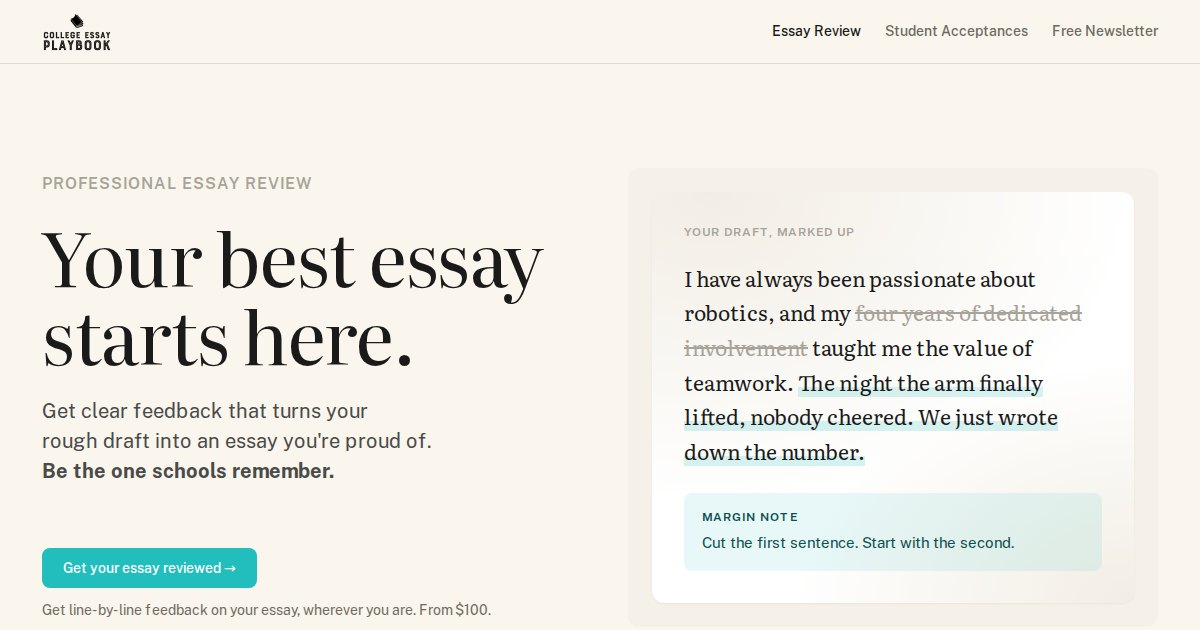
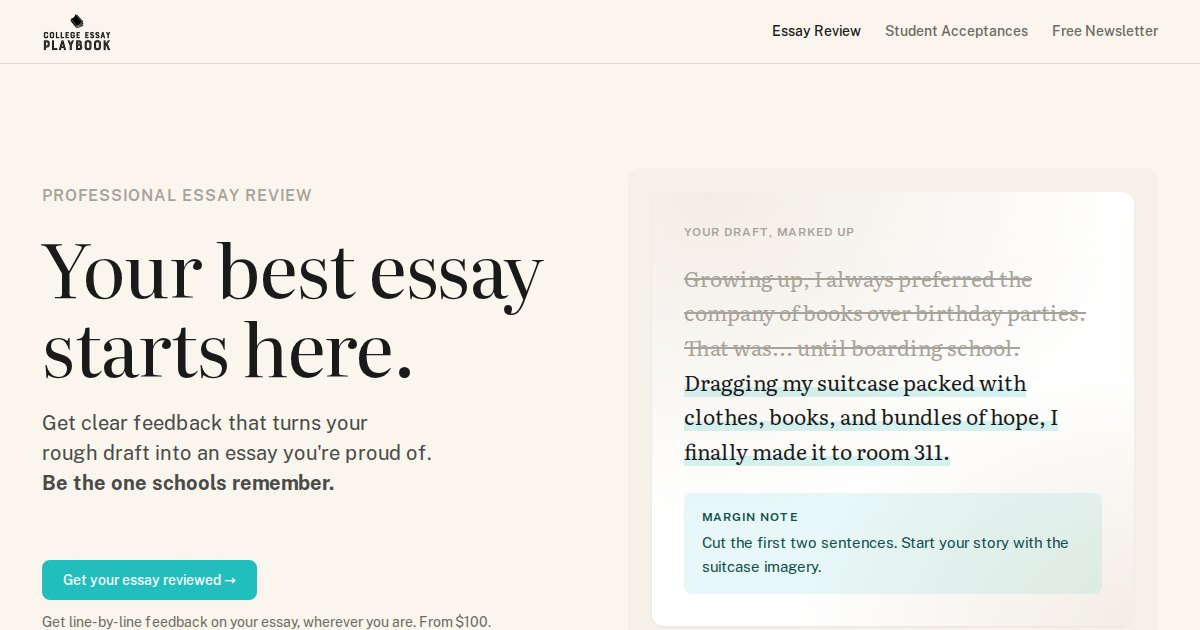
Add files via upload

diff --git a/index.html b/index.html
@@ -265,7 +265,7 @@ a:hover { color: rgb(33, 190, 189); }
 </head>
 <body>
 
-<div id="dc-root"><div class="sc-host" data-sc-name="source"><div style="background: rgb(250, 246, 237); font: 400 16px / 1.55 &quot;Public Sans&quot;, ui-sans-serif, system-ui, sans-serif; color: rgb(74, 74, 74);"><header style="background: rgb(250, 246, 237); height: 64px; border-bottom: 1px solid rgb(224, 219, 210); display: flex; align-items: center; position: sticky; top: 0px; z-index: 20;"><nav style="width: 100%; max-width: 1180px; margin: 0px auto; padding: 0px 32px; display: flex; align-items: center; gap: 32px;"><a href="#top" style="display: flex; align-items: center;"><img src="assets/2b1fd3ae8d9f.webp" alt="College Essay Playbook" style="height: 40px; width: auto; display: block;"></a><div style="margin-left: auto; display: flex; align-items: center; gap: 24px; font: 500 14px / 1.5 &quot;Public Sans&quot;, sans-serif;"><a href="#review" style="color: rgb(26, 26, 26); text-decoration: none;">Essay Review</a><a href="#proof" style="color: rgb(111, 106, 97); text-decoration: none;">Student Acceptances</a><a href="#newsletter" style="color: rgb(111, 106, 97); text-decoration: none;">Free Newsletter</a></div></nav></header><section id="top" data-screen-label="Hero" style="padding: 104px 0px 0px;"><div style="max-width: 1180px; margin: 0px auto; padding: 0px 32px; display: grid; grid-template-columns: repeat(auto-fit, minmax(340px, 1fr)); gap: 56px; align-items: center;"><div><div style="font: 600 16px / 1.4 &quot;Public Sans&quot;, sans-serif; letter-spacing: 1px; text-transform: uppercase; color: rgb(168, 163, 154); margin-bottom: 20px;">PROFESSIONAL ESSAY REVIEW</div><h1 style="margin: 0px; font: 400 clamp(42px, 6.2vw, 84px) / 1.05 Literata, Georgia, serif; letter-spacing: -1.5px; color: rgb(26, 26, 26);">Your best essay starts here.</h1><p style="margin: 24px 0px 0px; font: 400 20px / 1.5 &quot;Public Sans&quot;, sans-serif; color: rgb(74, 74, 74); max-width: 48ch; text-wrap: pretty; width: 492px; height: 120px;">Get clear feedback that turns your<br>rough draft into an essay you're proud of. <br><b>Be the one schools remember.<br></b><br></p><div style="margin-top: 32px; display: flex; flex-direction: column; align-items: flex-start; gap: 12px;"><div class="sc-host-x" style="display: contents;"><a href="#review" style="display: inline-flex; align-items: center; justify-content: center; gap: var(--space-xs); font: var(--type-button-md); padding: var(--pad-button); border-radius: var(--radius-button); cursor: pointer; width: auto; transition: var(--transition-state); white-space: nowrap; text-decoration: none; background: var(--teal); color: var(--text-on-teal); border: 1px solid transparent;">Get your essay reviewed →</a></div><div style="font: 400 14px / 1.5 &quot;Public Sans&quot;, sans-serif; color: rgb(111, 106, 97);">Get line-by-line feedback on your essay, wherever you are. From $100.</div></div></div><div style="background: rgb(245, 240, 232); padding: 24px; border-radius: 12px;"><div style="position: relative; background: rgb(255, 255, 255); border-radius: 12px; overflow: hidden; box-shadow: rgba(26, 26, 26, 0.05) 0px 1px 3px 0px;"><div style="position: absolute; inset: 0px; opacity: 0.55; background: radial-gradient(140% 120% at 12% 0%, rgb(232, 223, 206) 0%, transparent 62%), radial-gradient(120% 100% at 100% 100%, rgb(232, 223, 206) 0%, transparent 58%);"></div><div style="position: relative; padding: 32px;"><div style="font: 600 12px / 1.4 &quot;Public Sans&quot;, sans-serif; letter-spacing: 1px; text-transform: uppercase; color: rgb(168, 163, 154); margin-bottom: 20px;">Your draft, marked up</div><p style="margin: 0px; font: 400 21px / 1.65 Literata, Georgia, serif; color: rgb(26, 26, 26);">I have always been passionate about robotics, and my <span style="color: rgb(168, 163, 154); text-decoration: line-through;">four years of dedicated involvement</span> taught me the value of teamwork. <span style="box-shadow: rgba(33, 190, 189, 0.18) 0px -10px 0px inset;">The night the arm finally lifted, nobody cheered. We just wrote down the number.</span></p><div style="margin-top: 24px; background: rgba(33, 190, 189, 0.1); border-radius: 8px; padding: 16px 18px;"><div style="font: 600 12px / 1.4 &quot;Public Sans&quot;, sans-serif; letter-spacing: 1px; text-transform: uppercase; color: rgb(12, 79, 78); margin-bottom: 6px;">Margin note</div><div style="font: 400 15px / 1.55 &quot;Public Sans&quot;, sans-serif; color: rgb(12, 79, 78);">Cut the first sentence. Start with the second.</div></div></div></div></div></div><div style="max-width: 1180px; margin: 72px auto 0px; padding: 0px 32px;"><div style="border-top: 1px solid rgb(224, 219, 210); border-bottom: 1px solid rgb(224, 219, 210); padding: 22px 0px;"><div style="overflow: hidden;"><div data-cep-marquee="true" class="scp0" style="display: flex; align-items: center; width: max-content; animation: 64s linear 0s infinite normal none running cep-logo-marquee;"><div style="display: flex; align-items: center; gap: 52px; padding-right: 52px;"><img src="assets/45f95d2570ba.webp" alt="Stanford" style="height: 20px; width: auto; display: block; flex: 0 0 auto;"><img src="assets/a4bcbc0462c2.webp" alt="Brown" style="height: 32px; width: auto; display: block; flex: 0 0 auto;"><img src="assets/3e13833df788.webp" alt="UChicago" style="height: 32px; width: auto; display: block; flex: 0 0 auto;"><img src="assets/ab2d16cb9f86.webp" alt="Cornell" style="height: 32px; width: auto; display: block; flex: 0 0 auto;"><img src="assets/a8b0b301056c.webp" alt="UC Berkeley" style="height: 20px; width: auto; display: block; flex: 0 0 auto;"><img src="assets/2238df51ebb5.webp" alt="Duke" style="height: 26px; width: auto; display: block; flex: 0 0 auto;"><img src="assets/7add6d4907fb.webp" alt="UCLA" style="height: 32px; width: auto; display: block; flex: 0 0 auto;"><img src="assets/e28ca5a9fcb9.webp" alt="Vanderbilt" style="height: 32px; width: auto; display: block; flex: 0 0 auto;"><img src="assets/c02b90d16540.webp" alt="USC" style="height: 32px; width: auto; display: block; flex: 0 0 auto;"><img src="assets/ee2ad68f45fa.webp" alt="NYU" style="height: 32px; width: auto; display: block; flex: 0 0 auto;"></div><div style="display: flex; align-items: center; gap: 52px; padding-right: 52px;"><img src="assets/45f95d2570ba.webp" alt="" aria-hidden="true" style="height: 20px; width: auto; display: block; flex: 0 0 auto;"><img src="assets/a4bcbc0462c2.webp" alt="" aria-hidden="true" style="height: 32px; width: auto; display: block; flex: 0 0 auto;"><img src="assets/3e13833df788.webp" alt="" aria-hidden="true" style="height: 32px; width: auto; display: block; flex: 0 0 auto;"><img src="assets/ab2d16cb9f86.webp" alt="" aria-hidden="true" style="height: 32px; width: auto; display: block; flex: 0 0 auto;"><img src="assets/a8b0b301056c.webp" alt="" aria-hidden="true" style="height: 20px; width: auto; display: block; flex: 0 0 auto;"><img src="assets/2238df51ebb5.webp" alt="" aria-hidden="true" style="height: 26px; width: auto; display: block; flex: 0 0 auto;"><img src="assets/7add6d4907fb.webp" alt="" aria-hidden="true" style="height: 32px; width: auto; display: block; flex: 0 0 auto;"><img src="assets/e28ca5a9fcb9.webp" alt="" aria-hidden="true" style="height: 32px; width: auto; display: block; flex: 0 0 auto;"><img src="assets/c02b90d16540.webp" alt="" aria-hidden="true" style="height: 32px; width: auto; display: block; flex: 0 0 auto;"><img src="assets/ee2ad68f45fa.webp" alt="" aria-hidden="true" style="height: 32px; width: auto; display: block; flex: 0 0 auto;"></div></div></div></div></div></section><section data-screen-label="The problem" style="padding: 96px 0px;"><div style="max-width: 1180px; margin: 0px auto; padding: 0px 32px; display: grid; grid-template-columns: repeat(auto-fit, minmax(340px, 1fr)); gap: 48px; align-items: start;"><h2 style="margin: 0px; font: 400 clamp(32px, 4.2vw, 52px) / 1.15 Literata, Georgia, serif; letter-spacing: -0.5px; color: rgb(26, 26, 26); text-wrap: pretty;">You feel lost because there's no blueprint for college essays.</h2><div style="display: grid; gap: 20px; max-width: 58ch;"><p style="margin: 0px; font: 400 18px / 1.6 &quot;Public Sans&quot;, sans-serif; color: rgb(74, 74, 74); text-wrap: pretty;">School trains us to look for right answers, but a college essay doesn't have one. So you write a draft, edit, polish, and still can't tell if it's any good.<br><br>
+<div id="dc-root"><div class="sc-host" data-sc-name="source"><div style="background: rgb(250, 246, 237); font: 400 16px / 1.55 &quot;Public Sans&quot;, ui-sans-serif, system-ui, sans-serif; color: rgb(74, 74, 74);"><header style="background: rgb(250, 246, 237); height: 64px; border-bottom: 1px solid rgb(224, 219, 210); display: flex; align-items: center; position: sticky; top: 0px; z-index: 20;"><nav style="width: 100%; max-width: 1180px; margin: 0px auto; padding: 0px 32px; display: flex; align-items: center; gap: 32px;"><a href="#top" style="display: flex; align-items: center;"><img src="assets/2b1fd3ae8d9f.webp" alt="College Essay Playbook" style="height: 40px; width: auto; display: block;"></a><div style="margin-left: auto; display: flex; align-items: center; gap: 24px; font: 500 14px / 1.5 &quot;Public Sans&quot;, sans-serif;"><a href="#review" style="color: rgb(26, 26, 26); text-decoration: none;">Essay Review</a><a href="#proof" style="color: rgb(111, 106, 97); text-decoration: none;">Student Acceptances</a><a href="#newsletter" style="color: rgb(111, 106, 97); text-decoration: none;">Free Newsletter</a></div></nav></header><section id="top" data-screen-label="Hero" style="padding: 104px 0px 0px;"><div style="max-width: 1180px; margin: 0px auto; padding: 0px 32px; display: grid; grid-template-columns: repeat(auto-fit, minmax(340px, 1fr)); gap: 56px; align-items: center;"><div><div style="font: 600 16px / 1.4 &quot;Public Sans&quot;, sans-serif; letter-spacing: 1px; text-transform: uppercase; color: rgb(168, 163, 154); margin-bottom: 20px;">PROFESSIONAL ESSAY REVIEW</div><h1 style="margin: 0px; font: 400 clamp(42px, 6.2vw, 84px) / 1.05 Literata, Georgia, serif; letter-spacing: -1.5px; color: rgb(26, 26, 26);">Your best essay starts here.</h1><p style="margin: 24px 0px 0px; font: 400 20px / 1.5 &quot;Public Sans&quot;, sans-serif; color: rgb(74, 74, 74); max-width: 48ch; text-wrap: pretty; width: 492px; height: 120px;">Get clear feedback that turns your<br>rough draft into an essay you're proud of. <br><b>Be the one schools remember.<br></b><br></p><div style="margin-top: 32px; display: flex; flex-direction: column; align-items: flex-start; gap: 12px;"><div class="sc-host-x" style="display: contents;"><a href="#review" style="display: inline-flex; align-items: center; justify-content: center; gap: var(--space-xs); font: var(--type-button-md); padding: var(--pad-button); border-radius: var(--radius-button); cursor: pointer; width: auto; transition: var(--transition-state); white-space: nowrap; text-decoration: none; background: var(--teal); color: var(--text-on-teal); border: 1px solid transparent;">Get your essay reviewed →</a></div><div style="font: 400 14px / 1.5 &quot;Public Sans&quot;, sans-serif; color: rgb(111, 106, 97);">Get line-by-line feedback on your essay, wherever you are. From $100.</div></div></div><div style="background: rgb(245, 240, 232); padding: 24px; border-radius: 12px;"><div style="position: relative; background: rgb(255, 255, 255); border-radius: 12px; overflow: hidden; box-shadow: rgba(26, 26, 26, 0.05) 0px 1px 3px 0px;"><div style="position: absolute; inset: 0px; opacity: 0.55; background: radial-gradient(140% 120% at 12% 0%, rgb(232, 223, 206) 0%, transparent 62%), radial-gradient(120% 100% at 100% 100%, rgb(232, 223, 206) 0%, transparent 58%);"></div><div style="position: relative; padding: 32px;"><div style="font: 600 12px / 1.4 &quot;Public Sans&quot;, sans-serif; letter-spacing: 1px; text-transform: uppercase; color: rgb(168, 163, 154); margin-bottom: 20px;">Your draft, marked up</div><p style="margin: 0px; font: 400 21px / 1.65 Literata, Georgia, serif; color: rgb(26, 26, 26);"><span style="color: rgb(168, 163, 154); text-decoration: line-through;">Growing up, I always preferred the company of books over birthday parties. That was... until boarding school.</span> <span style="box-shadow: rgba(33, 190, 189, 0.18) 0px -10px 0px inset;">Dragging my suitcase packed with clothes, books, and bundles of hope, I finally made it to room 311.</span></p><div style="margin-top: 24px; background: rgba(33, 190, 189, 0.1); border-radius: 8px; padding: 16px 18px;"><div style="font: 600 12px / 1.4 &quot;Public Sans&quot;, sans-serif; letter-spacing: 1px; text-transform: uppercase; color: rgb(12, 79, 78); margin-bottom: 6px;">Margin note</div><div style="font: 400 15px / 1.55 &quot;Public Sans&quot;, sans-serif; color: rgb(12, 79, 78);">Cut the first two sentences. Start your story with the suitcase imagery.</div></div></div></div></div></div><div style="max-width: 1180px; margin: 72px auto 0px; padding: 0px 32px;"><div style="border-top: 1px solid rgb(224, 219, 210); border-bottom: 1px solid rgb(224, 219, 210); padding: 22px 0px;"><div style="overflow: hidden;"><div data-cep-marquee="true" class="scp0" style="display: flex; align-items: center; width: max-content; animation: 64s linear 0s infinite normal none running cep-logo-marquee;"><div style="display: flex; align-items: center; gap: 52px; padding-right: 52px;"><img src="assets/45f95d2570ba.webp" alt="Stanford" style="height: 20px; width: auto; display: block; flex: 0 0 auto;"><img src="assets/a4bcbc0462c2.webp" alt="Brown" style="height: 32px; width: auto; display: block; flex: 0 0 auto;"><img src="assets/3e13833df788.webp" alt="UChicago" style="height: 32px; width: auto; display: block; flex: 0 0 auto;"><img src="assets/ab2d16cb9f86.webp" alt="Cornell" style="height: 32px; width: auto; display: block; flex: 0 0 auto;"><img src="assets/a8b0b301056c.webp" alt="UC Berkeley" style="height: 20px; width: auto; display: block; flex: 0 0 auto;"><img src="assets/2238df51ebb5.webp" alt="Duke" style="height: 26px; width: auto; display: block; flex: 0 0 auto;"><img src="assets/7add6d4907fb.webp" alt="UCLA" style="height: 32px; width: auto; display: block; flex: 0 0 auto;"><img src="assets/e28ca5a9fcb9.webp" alt="Vanderbilt" style="height: 32px; width: auto; display: block; flex: 0 0 auto;"><img src="assets/c02b90d16540.webp" alt="USC" style="height: 32px; width: auto; display: block; flex: 0 0 auto;"><img src="assets/ee2ad68f45fa.webp" alt="NYU" style="height: 32px; width: auto; display: block; flex: 0 0 auto;"></div><div style="display: flex; align-items: center; gap: 52px; padding-right: 52px;"><img src="assets/45f95d2570ba.webp" alt="" aria-hidden="true" style="height: 20px; width: auto; display: block; flex: 0 0 auto;"><img src="assets/a4bcbc0462c2.webp" alt="" aria-hidden="true" style="height: 32px; width: auto; display: block; flex: 0 0 auto;"><img src="assets/3e13833df788.webp" alt="" aria-hidden="true" style="height: 32px; width: auto; display: block; flex: 0 0 auto;"><img src="assets/ab2d16cb9f86.webp" alt="" aria-hidden="true" style="height: 32px; width: auto; display: block; flex: 0 0 auto;"><img src="assets/a8b0b301056c.webp" alt="" aria-hidden="true" style="height: 20px; width: auto; display: block; flex: 0 0 auto;"><img src="assets/2238df51ebb5.webp" alt="" aria-hidden="true" style="height: 26px; width: auto; display: block; flex: 0 0 auto;"><img src="assets/7add6d4907fb.webp" alt="" aria-hidden="true" style="height: 32px; width: auto; display: block; flex: 0 0 auto;"><img src="assets/e28ca5a9fcb9.webp" alt="" aria-hidden="true" style="height: 32px; width: auto; display: block; flex: 0 0 auto;"><img src="assets/c02b90d16540.webp" alt="" aria-hidden="true" style="height: 32px; width: auto; display: block; flex: 0 0 auto;"><img src="assets/ee2ad68f45fa.webp" alt="" aria-hidden="true" style="height: 32px; width: auto; display: block; flex: 0 0 auto;"></div></div></div></div></div></section><section data-screen-label="The problem" style="padding: 96px 0px;"><div style="max-width: 1180px; margin: 0px auto; padding: 0px 32px; display: grid; grid-template-columns: repeat(auto-fit, minmax(340px, 1fr)); gap: 48px; align-items: start;"><h2 style="margin: 0px; font: 400 clamp(32px, 4.2vw, 52px) / 1.15 Literata, Georgia, serif; letter-spacing: -0.5px; color: rgb(26, 26, 26); text-wrap: pretty;">You feel lost because there's no blueprint for college essays.</h2><div style="display: grid; gap: 20px; max-width: 58ch;"><p style="margin: 0px; font: 400 18px / 1.6 &quot;Public Sans&quot;, sans-serif; color: rgb(74, 74, 74); text-wrap: pretty;">School trains us to look for right answers, but a college essay doesn't have one. So you write a draft, edit, polish, and still can't tell if it's any good.<br><br>
 You don't need a blueprint. You need direction.</p></div></div></section><section data-screen-label="Benefit triad" style="background: rgb(232, 223, 206); padding: 80px 0px;"><div style="max-width: 1180px; margin: 0px auto; padding: 0px 32px;"><h2 style="margin: 0px 0px 32px; font: 500 36px / 1.2 &quot;Public Sans&quot;, sans-serif; letter-spacing: -0.5px; color: rgb(26, 26, 26);">When you level up your essay...</h2><div style="display: grid; grid-template-columns: repeat(auto-fit, minmax(260px, 1fr)); gap: 20px;"><div style="background: rgb(255, 255, 255); border-radius: 12px; padding: 28px; display: flex; gap: 14px; align-items: flex-start;"><span style="flex: 0 0 auto; width: 6px; height: 6px; border-radius: 50%; background: rgb(33, 190, 189); margin-top: 11px;"></span><p style="margin: 0px; font: 400 21px / 1.45 Literata, Georgia, serif; color: rgb(26, 26, 26); text-wrap: pretty; position: relative;">It actually sounds like you (no more generic AI stuff)</p><p></p></div><div style="background: rgb(255, 255, 255); border-radius: 12px; padding: 28px; display: flex; gap: 14px; align-items: flex-start;"><span style="flex: 0 0 auto; width: 6px; height: 6px; border-radius: 50%; background: rgb(33, 190, 189); margin-top: 11px;"></span><p style="margin: 0px; font: 400 21px / 1.45 Literata, Georgia, serif; color: rgb(26, 26, 26); text-wrap: pretty;">It shows who you are, not just what you've done</p></div><div style="background: rgb(255, 255, 255); border-radius: 12px; padding: 28px; display: flex; gap: 14px; align-items: flex-start;"><span style="flex: 0 0 auto; width: 6px; height: 6px; border-radius: 50%; background: rgb(33, 190, 189); margin-top: 11px;"></span><p style="margin: 0px; font: 400 21px / 1.45 Literata, Georgia, serif; color: rgb(26, 26, 26); text-wrap: pretty;">You appeal to your reader's head and heart, potentially swinging their decision</p></div></div></div></section><section id="review" data-screen-label="The offer" style="padding: 96px 0px;"><div style="max-width: 1180px; margin: 0px auto; padding: 0px 32px;"><h2 style="margin: 0px; max-width: 30ch; font: 400 clamp(32px, 4.2vw, 52px) / 1.15 Literata, Georgia, serif; letter-spacing: -0.5px; color: rgb(26, 26, 26); text-wrap: pretty;">Professional Essay Review: <br>know what to fix before you submit</h2><div style="margin-top: 40px; display: grid; grid-template-columns: repeat(auto-fit, minmax(320px, 1fr)); gap: 48px; align-items: start;"><div style="display: grid; gap: 20px;"><p style="margin: 0px; font: 400 18px / 1.6 &quot;Public Sans&quot;, sans-serif; color: rgb(74, 74, 74); text-wrap: pretty;">Send me your draft (even a rough one) and get specific feedback on <b>what's working</b>, <b>what isn't</b>, and <b>what to change</b>, so you can revise with a clear plan instead of guessing.</p><p style="margin: 0px; font: 400 18px / 1.6 &quot;Public Sans&quot;, sans-serif; color: rgb(74, 74, 74); text-wrap: pretty;">This isn't a template or a generic AI pass. I read every line myself, the way I have for 50+ students over 7 years, and it stays between us.</p></div><div style="background: rgb(255, 255, 255); border: 1px solid rgb(224, 219, 210); border-radius: 12px; padding: 32px;"><div style="font: 600 12px / 1.4 &quot;Public Sans&quot;, sans-serif; letter-spacing: 1px; text-transform: uppercase; color: rgb(111, 106, 97); margin-bottom: 20px;">What you get</div><div style="display: grid; gap: 16px;"><div style="display: flex; gap: 12px; align-items: flex-start;"><span style="flex: 0 0 auto; width: 6px; height: 6px; border-radius: 50%; background: rgb(33, 190, 189); margin-top: 8px;"></span><span style="font: 400 17px / 1.5 &quot;Public Sans&quot;, sans-serif; color: rgb(26, 26, 26);">Line-by-line comments on your draft</span></div><div style="display: flex; gap: 12px; align-items: flex-start;"><span style="flex: 0 0 auto; width: 6px; height: 6px; border-radius: 50%; background: rgb(33, 190, 189); margin-top: 8px;"></span><span style="font: 400 17px / 1.5 &quot;Public Sans&quot;, sans-serif; color: rgb(26, 26, 26);">Sample edits that show, not just tell, how to strengthen your story</span></div><div style="display: flex; gap: 12px; align-items: flex-start;"><span style="flex: 0 0 auto; width: 6px; height: 6px; border-radius: 50%; background: rgb(33, 190, 189); margin-top: 8px;"></span><span style="font: 400 17px / 1.5 &quot;Public Sans&quot;, sans-serif; color: rgb(26, 26, 26);">A prioritized revision plan, so you know what to fix first</span></div><div style="display: flex; gap: 12px; align-items: flex-start;"><span style="flex: 0 0 auto; width: 6px; height: 6px; border-radius: 50%; background: rgb(33, 190, 189); margin-top: 8px;"></span><span style="font: 400 17px / 1.5 &quot;Public Sans&quot;, sans-serif; color: rgb(26, 26, 26);">Feedback back to you within 3 business days</span></div></div></div></div><div style="margin-top: 40px; background: rgb(255, 255, 255); border: 1px solid rgb(224, 219, 210); border-radius: 12px; overflow: hidden;"><div style="display: grid; grid-template-columns: repeat(auto-fit, minmax(200px, 1fr));"><div style="padding: 28px 32px;"><div style="font: 600 12px / 1.4 &quot;Public Sans&quot;, sans-serif; letter-spacing: 1px; text-transform: uppercase; color: rgb(111, 106, 97);">Short essay</div><div style="margin-top: 6px; font: 400 15px / 1.5 &quot;Public Sans&quot;, sans-serif; color: rgb(74, 74, 74);">Under 300 words</div><div style="margin-top: 14px; font: 400 44px / 1.05 Literata, Georgia, serif; letter-spacing: -0.5px; color: rgb(26, 26, 26);">$100</div></div><div style="padding: 28px 32px; border-left: 1px solid rgb(224, 219, 210);"><div style="font: 600 12px / 1.4 &quot;Public Sans&quot;, sans-serif; letter-spacing: 1px; text-transform: uppercase; color: rgb(111, 106, 97);">Medium essay</div><div style="margin-top: 6px; font: 400 15px / 1.5 &quot;Public Sans&quot;, sans-serif; color: rgb(74, 74, 74);">301 to 600 words</div><div style="margin-top: 14px; font: 400 44px / 1.05 Literata, Georgia, serif; letter-spacing: -0.5px; color: rgb(26, 26, 26);">$150</div></div><div style="padding: 28px 32px; border-left: 1px solid rgb(224, 219, 210);"><div style="font: 600 12px / 1.4 &quot;Public Sans&quot;, sans-serif; letter-spacing: 1px; text-transform: uppercase; color: rgb(111, 106, 97);">Long essay</div><div style="margin-top: 6px; font: 400 15px / 1.5 &quot;Public Sans&quot;, sans-serif; color: rgb(74, 74, 74);">601 to 800 words</div><div style="margin-top: 14px; font: 400 44px / 1.05 Literata, Georgia, serif; letter-spacing: -0.5px; color: rgb(26, 26, 26);">$200</div></div></div><div style="border-top: 1px solid rgb(224, 219, 210); background: rgb(250, 246, 237); padding: 24px 32px; display: flex; flex-wrap: wrap; gap: 24px; align-items: center; justify-content: space-between;"><p style="margin: 0px; font: 400 16px / 1.55 &quot;Public Sans&quot;, sans-serif; color: rgb(74, 74, 74); max-width: 74ch; text-wrap: pretty;"><span style="font-weight: 600; color: rgb(26, 26, 26);">Add a Second Look</span> to be sure you nailed the revision. Send your revised draft within 2 weeks and I'll do a second pass: what improved, what still needs work, and any final tweaks. <br>A flat $75, any essay length.</p><div class="sc-host-x" style="display: contents;"><a href="https://buymeacoffee.com/themaychen/e/560412" style="display: inline-flex; align-items: center; justify-content: center; gap: var(--space-xs); font: var(--type-button-md); padding: var(--pad-button); border-radius: var(--radius-button); cursor: pointer; width: auto; transition: var(--transition-state); white-space: nowrap; text-decoration: none; background: transparent; color: var(--ink); border: 1px solid var(--button-border);">Add a Second Look →</a></div></div></div><div style="margin-top: 32px; display: flex; flex-wrap: wrap; gap: 20px 28px; align-items: center;"><div class="sc-host-x" style="display: contents;"><a href="https://buymeacoffee.com/themaychen/extras" style="display: inline-flex; align-items: center; justify-content: center; gap: var(--space-xs); font: var(--type-button-md); padding: var(--pad-button); border-radius: var(--radius-button); cursor: pointer; width: auto; transition: var(--transition-state); white-space: nowrap; text-decoration: none; background: var(--teal); color: var(--text-on-teal); border: 1px solid transparent;">Get your essay reviewed →</a></div><a href="https://drive.google.com/file/d/1s9jdha4_hV9waD2XSbMiQtamce-8S3XS/view?usp=sharing" style="font: 500 15px / 1.5 &quot;Public Sans&quot;, sans-serif; color: rgb(12, 79, 78); text-decoration: underline; text-underline-offset: 3px;">Check out my review rubric</a></div></div></section><section data-screen-label="Why me" style="padding: 96px 0px;"><div style="max-width: 1180px; margin: 0px auto; padding: 0px 32px; display: grid; grid-template-columns: repeat(auto-fit, minmax(300px, 1fr)); gap: 56px; align-items: start;"><div style="background: rgb(245, 240, 232); padding: 20px; border-radius: 12px;"><div style="position: relative; width: 100%; aspect-ratio: 4 / 5; border-radius: 8px; overflow: hidden;"><img src="assets/0adf06f31e67.webp" alt="May Chen" style="width: 100%; height: 100%; object-fit: cover; display: block;"></div><div style="margin-top: 14px; font: 500 13px / 1.4 &quot;Public Sans&quot;, sans-serif; color: rgb(111, 106, 97);">Oh, hi there&nbsp;😄</div></div><div><h2 style="margin: 0px; font: 400 clamp(32px, 4.2vw, 52px) / 1.15 Literata, Georgia, serif; letter-spacing: -0.5px; color: rgb(26, 26, 26); max-width: 20ch; text-wrap: pretty;">Your story can be more powerful than your stats</h2><div style="display: grid; gap: 20px; margin-top: 28px; max-width: 60ch;"><div style="margin: 0px; font: 400 18px / 1.6 &quot;Public Sans&quot;, sans-serif; color: rgb(74, 74, 74); text-wrap: pretty;">I got into Cornell with a 3.8 GPA but SAT scores in the 25th percentile. On paper, I was a "maybe". But my essay, about finding myself through different theater roles I played, turned me into a <b>"yes"</b>. <br><br><p class="font-claude-response-body break-words whitespace-normal" dir="ltr">Over <b>7 years</b>, I've helped <b>50+ students</b> do the same, getting into schools like Stanford, Brown, and Cornell.</p><p class="font-claude-response-body break-words whitespace-normal" dir="ltr"><span style="text-wrap-mode: initial;"><br>I'd love to help you find your story.</span></p></div></div></div></div></section><section id="proof" data-screen-label="Proof: logo wall" style="background: rgb(245, 240, 232); padding: 96px 0px;"><div style="max-width: 1180px; margin: 0px auto; padding: 0px 32px;"><h2 style="margin: 0px; font: 400 clamp(32px, 4.2vw, 52px) / 1.15 Literata, Georgia, serif; letter-spacing: -0.5px; color: rgb(26, 26, 26);">Where my students have gotten in</h2><div style="margin-top: 40px; display: grid; grid-template-columns: repeat(auto-fill, minmax(168px, 1fr)); gap: 16px;"><div style="grid-column: span 2; background: rgb(255, 255, 255); border: 1px solid rgb(224, 219, 210); border-radius: 12px; padding: 16px; height: 120px; display: flex; align-items: center; justify-content: center;"><img src="assets/45f95d2570ba.webp" alt="Stanford" style="max-width: 100%; max-height: 48px; width: auto; height: auto; display: block;"></div><div style="background: rgb(255, 255, 255); border: 1px solid rgb(224, 219, 210); border-radius: 12px; padding: 16px; height: 120px; display: flex; align-items: center; justify-content: center;"><img src="assets/a4bcbc0462c2.webp" alt="Brown" style="max-width: 100%; max-height: 88px; width: auto; height: auto; display: block;"></div><div style="background: rgb(255, 255, 255); border: 1px solid rgb(224, 219, 210); border-radius: 12px; padding: 16px; height: 120px; display: flex; align-items: center; justify-content: center;"><img src="assets/2238df51ebb5.webp" alt="Duke" style="max-width: 100%; max-height: 72px; width: auto; height: auto; display: block;"></div><div style="background: rgb(255, 255, 255); border: 1px solid rgb(224, 219, 210); border-radius: 12px; padding: 16px; height: 120px; display: flex; align-items: center; justify-content: center;"><img src="assets/3e13833df788.webp" alt="UChicago" style="max-width: 100%; max-height: 88px; width: auto; height: auto; display: block;"></div><div style="background: rgb(255, 255, 255); border: 1px solid rgb(224, 219, 210); border-radius: 12px; padding: 16px; height: 120px; display: flex; align-items: center; justify-content: center;"><img src="assets/ab2d16cb9f86.webp" alt="Cornell" style="max-width: 100%; max-height: 88px; width: auto; height: auto; display: block;"></div><div style="grid-column: span 2; background: rgb(255, 255, 255); border: 1px solid rgb(224, 219, 210); border-radius: 12px; padding: 16px; height: 120px; display: flex; align-items: center; justify-content: center;"><img src="assets/a8b0b301056c.webp" alt="UC Berkeley" style="max-width: 100%; max-height: 48px; width: auto; height: auto; display: block;"></div><div style="background: rgb(255, 255, 255); border: 1px solid rgb(224, 219, 210); border-radius: 12px; padding: 16px; height: 120px; display: flex; align-items: center; justify-content: center;"><img src="assets/7add6d4907fb.webp" alt="UCLA" style="max-width: 100%; max-height: 88px; width: auto; height: auto; display: block;"></div><div style="background: rgb(255, 255, 255); border: 1px solid rgb(224, 219, 210); border-radius: 12px; padding: 16px; height: 120px; display: flex; align-items: center; justify-content: center;"><img src="assets/e28ca5a9fcb9.webp" alt="Vanderbilt" style="max-width: 100%; max-height: 88px; width: auto; height: auto; display: block;"></div><div style="grid-column: span 2; background: rgb(255, 255, 255); border: 1px solid rgb(224, 219, 210); border-radius: 12px; padding: 16px; height: 120px; display: flex; align-items: center; justify-content: center;"><img src="assets/f5c1bc7e96f1.webp" alt="Carnegie Mellon" style="max-width: 100%; max-height: 48px; width: auto; height: auto; display: block;"></div><div style="grid-column: span 2; background: rgb(255, 255, 255); border: 1px solid rgb(224, 219, 210); border-radius: 12px; padding: 16px; height: 120px; display: flex; align-items: center; justify-content: center;"><img src="assets/efc40e6c4441.webp" alt="Rice" style="max-width: 100%; max-height: 48px; width: auto; height: auto; display: block;"></div><div style="grid-column: span 2; background: rgb(255, 255, 255); border: 1px solid rgb(224, 219, 210); border-radius: 12px; padding: 16px; height: 120px; display: flex; align-items: center; justify-content: center;"><img src="assets/457d536bb784.webp" alt="WashU" style="max-width: 100%; max-height: 48px; width: auto; height: auto; display: block;"></div><div style="background: rgb(255, 255, 255); border: 1px solid rgb(224, 219, 210); border-radius: 12px; padding: 16px; height: 120px; display: flex; align-items: center; justify-content: center;"><img src="assets/9abbbc0a671a.webp" alt="Emory" style="max-width: 100%; max-height: 88px; width: auto; height: auto; display: block;"></div><div style="background: rgb(255, 255, 255); border: 1px solid rgb(224, 219, 210); border-radius: 12px; padding: 16px; height: 120px; display: flex; align-items: center; justify-content: center;"><img src="assets/ee2ad68f45fa.webp" alt="NYU" style="max-width: 100%; max-height: 88px; width: auto; height: auto; display: block;"></div><div style="background: rgb(255, 255, 255); border: 1px solid rgb(224, 219, 210); border-radius: 12px; padding: 16px; height: 120px; display: flex; align-items: center; justify-content: center;"><img src="assets/af8ef0d3dc6c.webp" alt="UVA" style="max-width: 100%; max-height: 88px; width: auto; height: auto; display: block;"></div><div style="background: rgb(255, 255, 255); border: 1px solid rgb(224, 219, 210); border-radius: 12px; padding: 16px; height: 120px; display: flex; align-items: center; justify-content: center;"><img src="assets/c02b90d16540.webp" alt="USC" style="max-width: 100%; max-height: 88px; width: auto; height: auto; display: block;"></div><div style="background: rgb(255, 255, 255); border: 1px solid rgb(224, 219, 210); border-radius: 12px; padding: 16px; height: 120px; display: flex; align-items: center; justify-content: center;"><img src="assets/9189c4d43b4f.webp" alt="Georgia Tech" style="max-width: 100%; max-height: 88px; width: auto; height: auto; display: block;"></div><div style="background: rgb(255, 255, 255); border: 1px solid rgb(224, 219, 210); border-radius: 12px; padding: 16px; height: 120px; display: flex; align-items: center; justify-content: center;"><img src="assets/aed2a92888e5.webp" alt="UNC" style="max-width: 100%; max-height: 88px; width: auto; height: auto; display: block;"></div></div><p style="margin: 24px 0px 0px; font: 400 17px / 1.5 &quot;Public Sans&quot;, sans-serif; color: rgb(74, 74, 74);">And many more!</p></div></section><section data-screen-label="Proof: testimonials" style="padding: 96px 0px;"><div style="max-width: 1180px; margin: 0px auto; padding: 0px 32px;"><h2 style="margin: 0px 0px 40px; font: 400 clamp(32px, 4.2vw, 52px) / 1.15 Literata, Georgia, serif; letter-spacing: -0.5px; color: rgb(26, 26, 26);">What students are saying</h2><div style="display: grid; grid-template-columns: repeat(auto-fit, minmax(280px, 1fr)); gap: 20px; align-items: stretch;"><div style="background: rgb(255, 255, 255); border: 1px solid rgb(224, 219, 210); border-radius: 12px; padding: 32px; display: flex; flex-direction: column; gap: 24px;"><p style="margin: 0px; font: 400 21px / 1.5 Literata, Georgia, serif; color: rgb(26, 26, 26); text-wrap: pretty;">“May poured tremendous energy and professional expertise into polishing my ordinary experiences into compelling stories, helping me overcome my anxiety and manage a heavy workload.”</p><div style="margin-top: auto; border-top: 1px solid rgb(224, 219, 210); padding-top: 20px; font: 500 15px / 1.4 &quot;Public Sans&quot;, sans-serif; color: rgb(26, 26, 26);">Austin<div style="font-weight: 400; color: rgb(111, 106, 97);">USC, Class of '30</div></div></div><div style="background: rgb(255, 255, 255); border: 1px solid rgb(224, 219, 210); border-radius: 12px; padding: 32px; display: flex; flex-direction: column; gap: 24px;"><p style="margin: 0px; font: 400 21px / 1.5 Literata, Georgia, serif; color: rgb(26, 26, 26); text-wrap: pretty;">“Thank you so much for your invaluable guidance and support with my personal statement and Stanford essays.”</p><div style="margin-top: auto; border-top: 1px solid rgb(224, 219, 210); padding-top: 20px; font: 500 15px / 1.4 &quot;Public Sans&quot;, sans-serif; color: rgb(26, 26, 26);">John<div style="font-weight: 400; color: rgb(111, 106, 97);">Stanford, Class of '29</div></div></div><div style="background: rgb(255, 255, 255); border: 1px solid rgb(224, 219, 210); border-radius: 12px; padding: 32px; display: flex; flex-direction: column; gap: 24px;"><p style="margin: 0px; font: 400 21px / 1.5 Literata, Georgia, serif; color: rgb(26, 26, 26); text-wrap: pretty;">“May's expertise transformed my college essays from a generic narrative into compelling statements that authentically showcase my strengths.”</p><div style="margin-top: auto; border-top: 1px solid rgb(224, 219, 210); padding-top: 20px; font: 500 15px / 1.4 &quot;Public Sans&quot;, sans-serif; color: rgb(26, 26, 26);">Jiayi<div style="font-weight: 400; color: rgb(111, 106, 97);">Emory, Class of '29</div></div></div></div></div></section><section data-screen-label="Risk reducer" style="padding: 0px 0px 96px;"><div style="max-width: 1180px; margin: 0px auto; padding: 0px 32px;"><div style="background: rgb(255, 255, 255); border: 1px solid rgb(224, 219, 210); border-radius: 12px; padding: 40px; display: grid; grid-template-columns: repeat(auto-fit, minmax(260px, 1fr)); gap: 40px; align-items: center;"><h2 style="margin: 0px; font: 400 clamp(30px, 3.6vw, 44px) / 1.15 Literata, Georgia, serif; letter-spacing: -0.5px; color: rgb(26, 26, 26);">No surprises</h2><p style="margin: 0px; font: 400 18px / 1.6 &quot;Public Sans&quot;, sans-serif; color: rgb(74, 74, 74); max-width: 62ch; text-wrap: pretty;">You can see my rubric before you pay, so you know exactly what you'll get: honest, specific notes. And if your essay is already strong, I'll tell you that too.</p></div></div></section><section id="newsletter" data-screen-label="Newsletter" style="background: rgb(232, 223, 206); padding: 80px 0px;"><div style="max-width: 1180px; margin: 0px auto; padding: 0px 32px; display: grid; grid-template-columns: repeat(auto-fit, minmax(320px, 1fr)); gap: 48px; align-items: center;"><h2 style="margin: 0px; font: 400 clamp(30px, 3.6vw, 44px) / 1.15 Literata, Georgia, serif; letter-spacing: -0.5px; color: rgb(26, 26, 26); text-wrap: pretty;">Not ready to book yet? Start free.</h2><div><p style="margin: 0px; font: 400 18px / 1.6 &quot;Public Sans&quot;, sans-serif; color: rgb(74, 74, 74); max-width: 58ch; text-wrap: pretty;">Join College Essay Playbook, my weekly newsletter where I share the same insider tips I use with students that get them into Top 30 U.S. schools.<br><br>Completely free. Unsubscribe anytime.</p><div style="margin-top: 24px;"><div class="sc-host-x" style="display: contents;"><a href="https://themaychen.substack.com/" style="display: inline-flex; align-items: center; justify-content: center; gap: var(--space-xs); font: var(--type-button-md); padding: var(--pad-button); border-radius: var(--radius-button); cursor: pointer; width: auto; transition: var(--transition-state); white-space: nowrap; text-decoration: none; background: var(--amber); color: var(--text-on-amber); border: 1px solid transparent;">Subscribe to the newsletter →</a></div></div></div></div></section><section data-screen-label="Final CTA" style="padding: 96px 0px;"><div style="max-width: 1180px; margin: 0px auto; padding: 0px 32px;"><div style="background: rgb(245, 240, 232); border-radius: 12px; padding: 32px;"><div style="position: relative; background: rgb(250, 246, 237); border-radius: 12px; overflow: hidden; padding: 72px 32px; text-align: center;"><div style="position: absolute; inset: 0px; opacity: 0.5; background: radial-gradient(140% 120% at 12% 0%, rgb(232, 223, 206) 0%, transparent 62%), radial-gradient(120% 100% at 100% 100%, rgb(232, 223, 206) 0%, transparent 58%);"></div><div style="position: relative; display: flex; flex-direction: column; align-items: center; gap: 20px;"><h2 style="margin: 0px; font: 400 clamp(32px, 4.2vw, 52px) / 1.15 Literata, Georgia, serif; letter-spacing: -0.5px; color: rgb(26, 26, 26);">Your essay is in your hands</h2><p style="margin: 0px; font: 400 18px / 1.6 &quot;Public Sans&quot;, sans-serif; color: rgb(74, 74, 74); max-width: 56ch; text-wrap: pretty; position: relative;">It's the one part of your application that's 100% in your control. <br>Want to feel more confident? Send it my way.</p><div style="margin-top: 8px;"><div class="sc-host-x" style="display: contents;"><a href="https://buymeacoffee.com/themaychen/extras" style="display: inline-flex; align-items: center; justify-content: center; gap: var(--space-xs); font: var(--type-button-md); padding: var(--pad-button); border-radius: var(--radius-button); cursor: pointer; width: auto; transition: var(--transition-state); white-space: nowrap; text-decoration: none; background: var(--teal); color: var(--text-on-teal); border: 1px solid transparent;">Get your essay reviewed →</a></div></div></div></div></div></div></section><footer data-screen-label="Connect" style="background: rgb(245, 240, 232); border-top: 1px solid rgb(224, 219, 210); padding: 48px 0px;"><div style="max-width: 1180px; margin: 0px auto; padding: 0px 32px; display: flex; flex-wrap: wrap; gap: 24px; align-items: center; justify-content: space-between;"><img src="assets/2b1fd3ae8d9f.webp" alt="College Essay Playbook" style="height: 40px; width: auto; display: block;"><p style="margin: 0px; font: 400 16px / 1.55 &quot;Public Sans&quot;, sans-serif; color: rgb(74, 74, 74);">Reach me at <a href="mailto:may@maychen.org" style="color: rgb(12, 79, 78); text-decoration: underline; text-underline-offset: 3px;">may@maychen.org</a> or on Instagram <a href="https://instagram.com/themaychen" style="color: rgb(12, 79, 78); text-decoration: underline; text-underline-offset: 3px;">@themaychen</a>.</p></div></footer></div></div></div>
 
 
